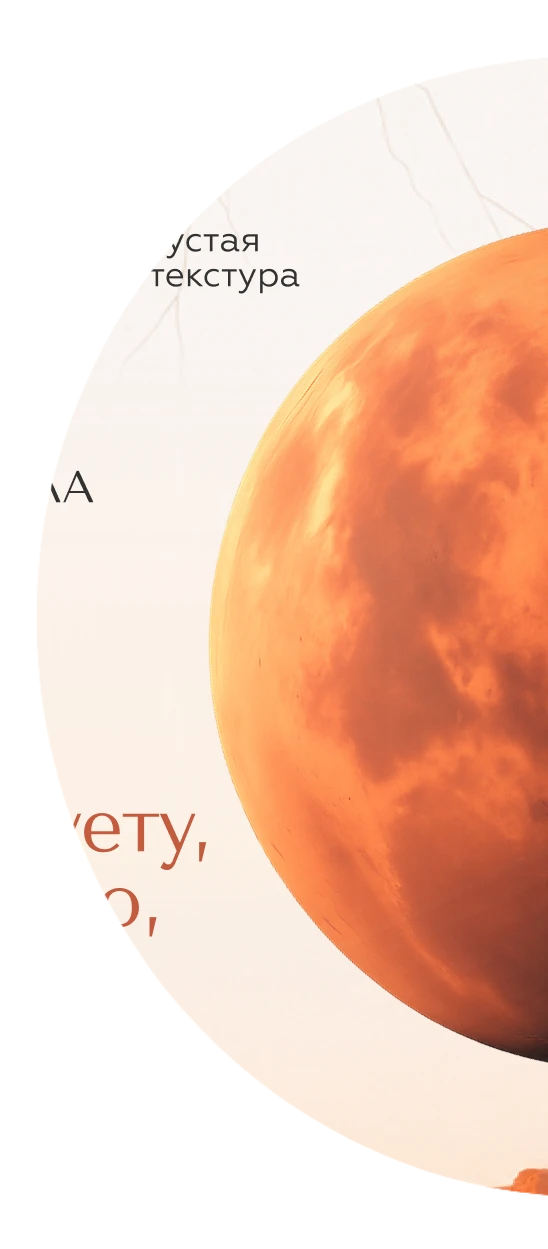
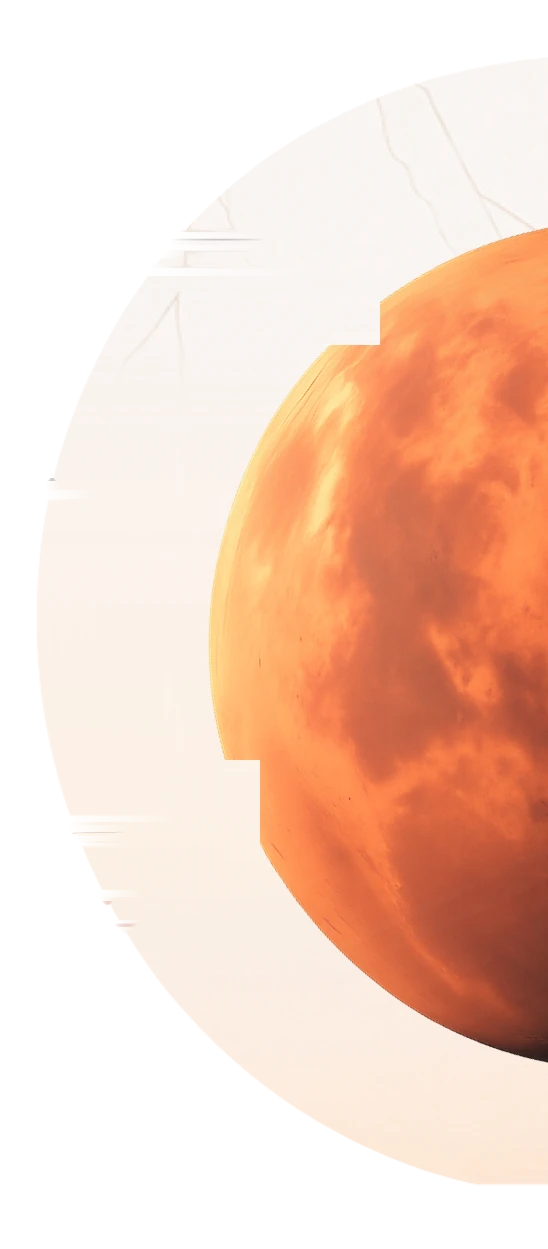
«Плывущие буквы» побеждены: в рендер планеты был запечён текст соседних слоёв
Экспорт планеты из Figma содержал куски текстов («устая текстура», «А»,
«уету,», «о,») и осколок скалы; полупрозрачный ореол перекрывал живой текст,
а параллакс сдвигал запечённую копию — буквы «плыли» и двоились.

- запечённый текст вычищен инпейнтингом (интерполяция фона ореола)
- планета перенесена в DOM ПОД тексты (как в макете)
- zoom-скейлинг не виноват — оставлен как был

diff --git a/index.html b/index.html
@@ -158,6 +158,9 @@
   <!-- 521:697 gel pump (baked incl. blur band) -->
   <img class="abs n697" src="public/images/render/pump-697.webp" alt="" loading="lazy">
 
+  <!-- 521:731 planet -->
+  <img class="abs n731" src="public/images/render/planet-731.webp" alt="" loading="lazy">
+
   <!-- gel/cream diagrams -->
   <p class="t lbl n699">быстро впитывается, <br>не оставляя липкости</p>
   <p class="t lbl n700">устраняет сухость и раздражение</p>
@@ -181,8 +184,6 @@
   <!-- 521:730 -->
   <p class="t lbl n730">натуральные компоненты</p>
 
-  <!-- 521:731 planet -->
-  <img class="abs n731" src="public/images/render/planet-731.webp" alt="" loading="lazy">
 
 </div>
 

diff --git a/catalog.css b/catalog.css
@@ -205,6 +205,7 @@ body.anim .cat-card.rv-card:not(.in) { opacity: 0; transform: translateY(26px); 
 
 /* плавный якорный скролл к контактам */
 html { scroll-behavior: smooth; }
+@media (min-width: 769px) { html, body { overflow-x: hidden; } }
 @media (prefers-reduced-motion: reduce) { html { scroll-behavior: auto; } }
 
 /* ============ Мобильная перестройка (≤768px) ============ */
